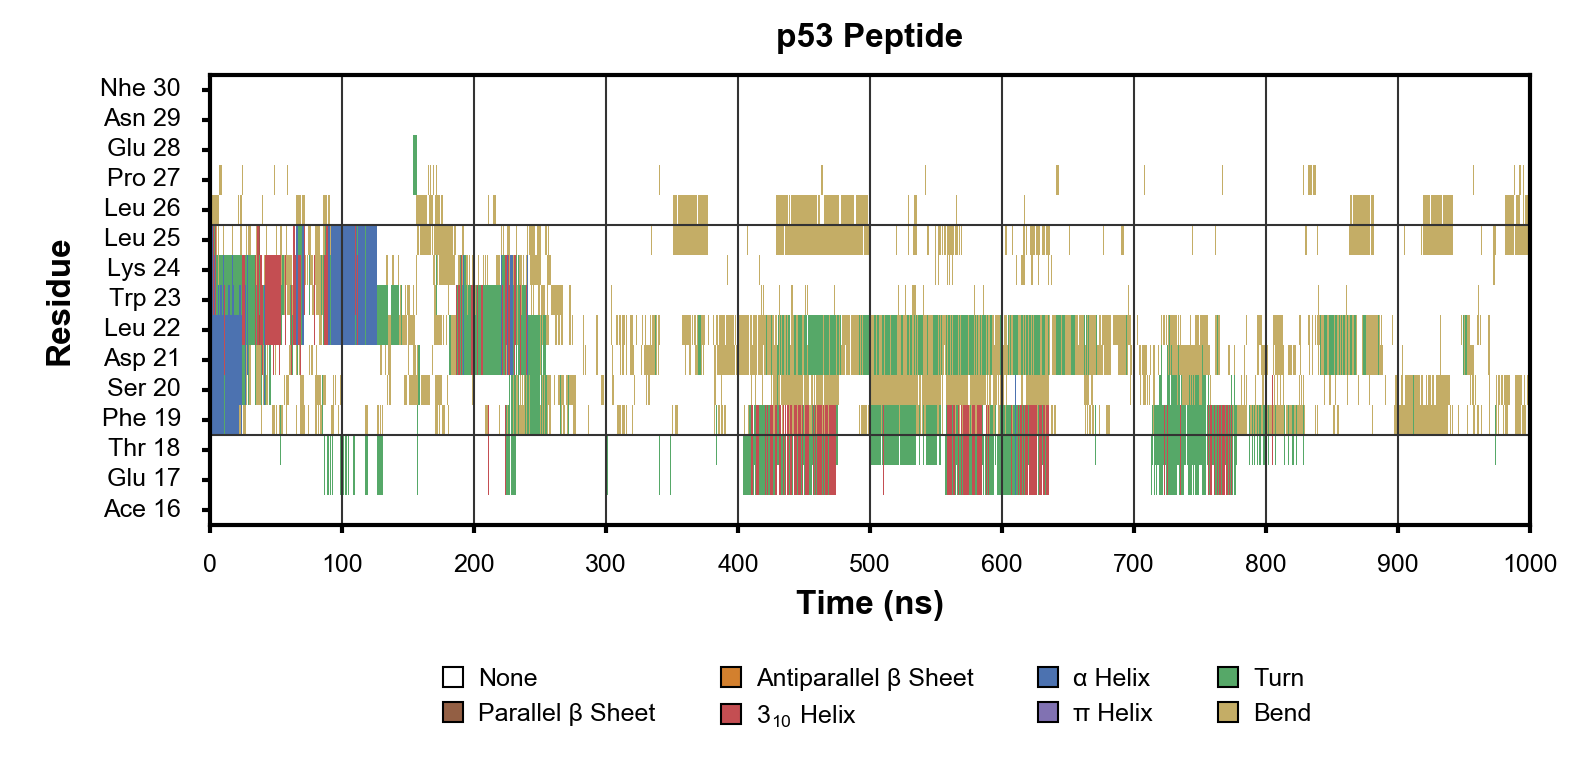
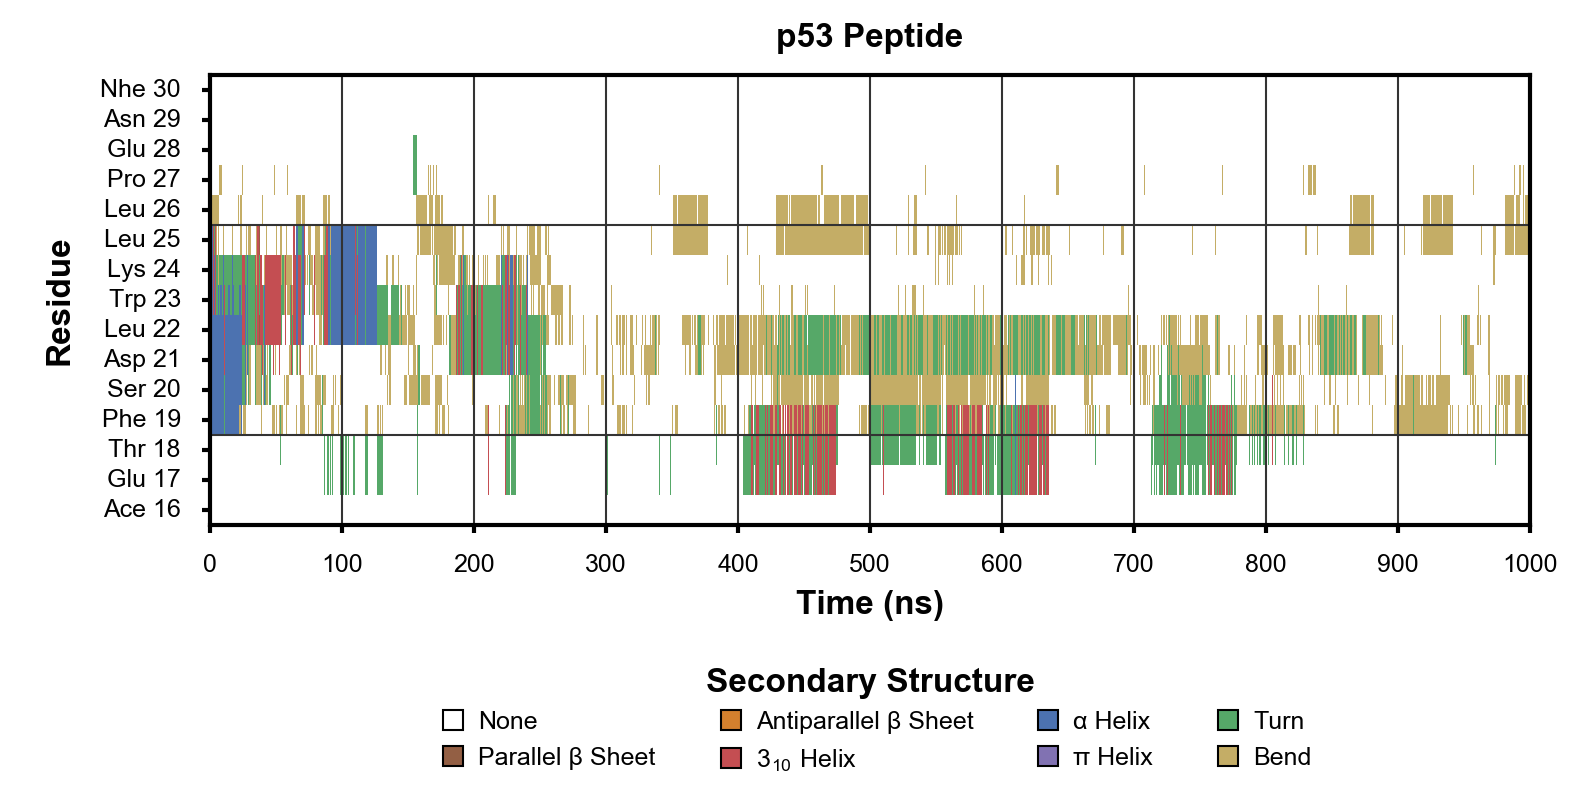
updated DSSP legend title

diff --git a/moldynplot/TimeSeries2DFigureManager.py b/moldynplot/TimeSeries2DFigureManager.py
@@ -116,6 +116,8 @@ class TimeSeries2DFigureManager(FigureManager):
                  {color: !!python/object/apply:moldynplot.dssp_cmap [6,0,7]}]
               - ["Bend",
                  {color: !!python/object/apply:moldynplot.dssp_cmap [7,0,7]}]
+            legend_kw:
+              title: Secondary Structure
         draw_subplot:
           ylabel: Residue
         draw_dataset:
